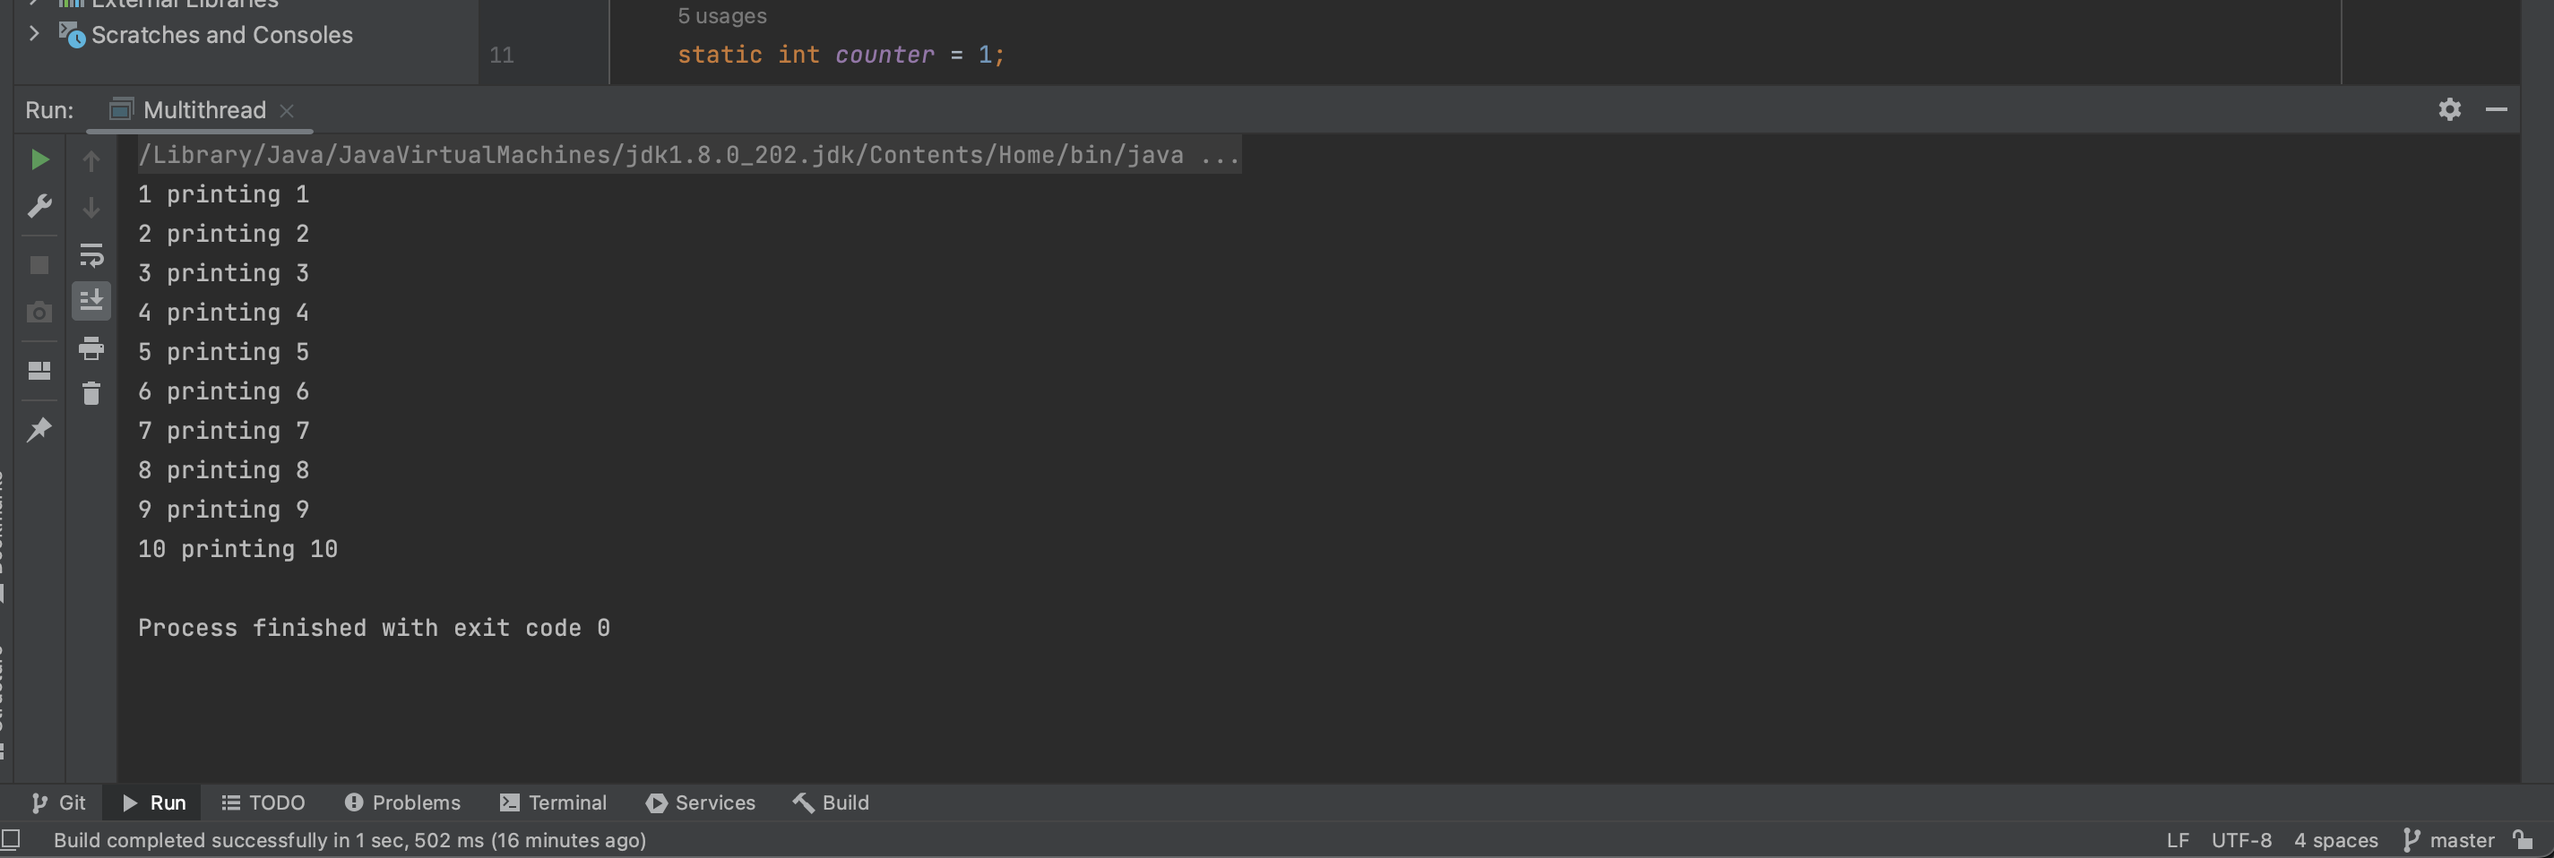
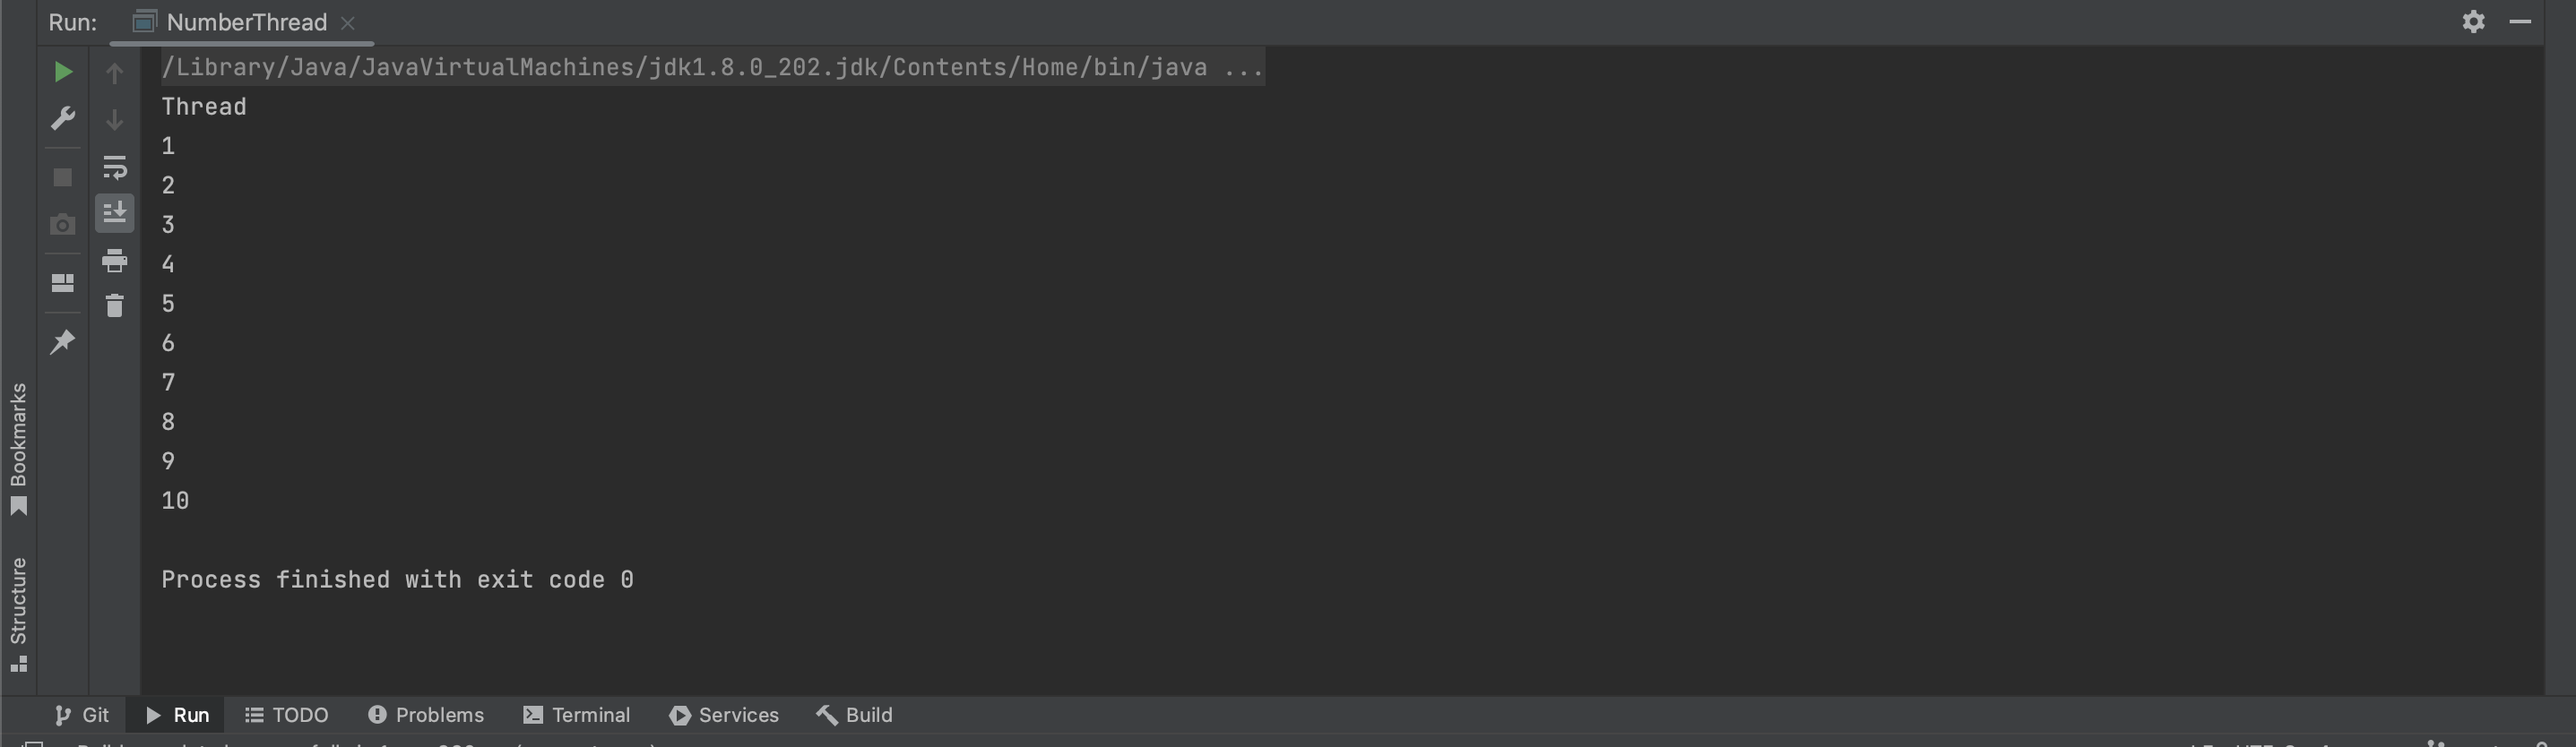
Multi thread update

diff --git a/src/com/week3/tue/Mythread.java b/src/com/week3/tue/Mythread.java
@@ -4,7 +4,7 @@ public class Mythread implements Runnable {
     @Override
     public void run() {
         for (int i = 1; i <= 10; i++) {
-            System.out.println( "Thread" +" "+ i);
+            System.out.println(i);
             try {
                 Thread.sleep(200);
             } catch (InterruptedException e) {
@@ -17,7 +17,7 @@ public class Mythread implements Runnable {
         Mythread numberPrinter = new Mythread();
 
         Thread thread = new Thread(numberPrinter);
-       // System.out.println("thread");
+        System.out.println("thread");
         thread.start();
 
     }

diff --git a/src/com/week3/tue/NumberThread.java b/src/com/week3/tue/NumberThread.java
@@ -1,0 +1,17 @@
+package com.week3.tue;
+
+public  class NumberThread extends Thread {
+    @Override
+    public void run() {
+        for (int i = 1; i <= 10; i++) {
+            System.out.println(i);
+        }
+    }
+
+    public static void main(String[] args) {
+        NumberThread numberThread = new NumberThread();
+        System.out.println("Thread");
+        numberThread.start();
+
+    }
+}
